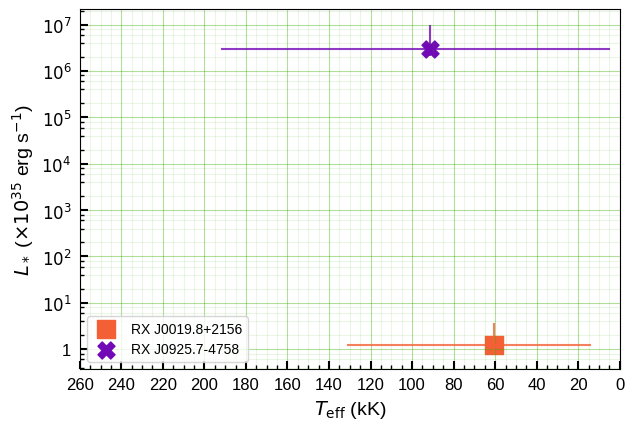
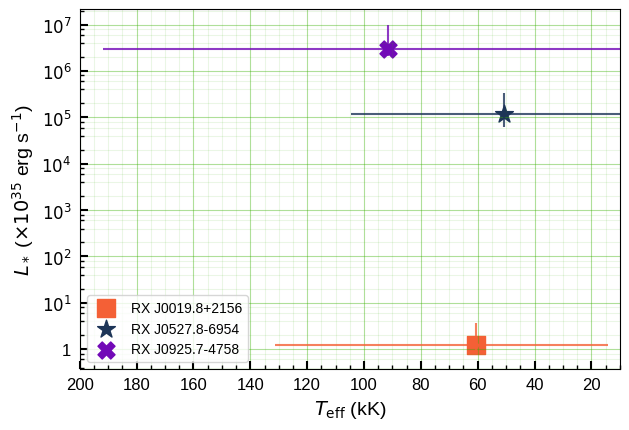
Updated analysis of HV 2554

diff --git a/chapters/05/results.tex b/chapters/05/results.tex
@@ -83,7 +83,7 @@
 				{CAL 83} & {} & {} & {} \\
 				{RS Oph} & {} & {} & {} \\
 				{RX J0019.8+2156} & {${68.3}/{54}$} & {1.26} & {$9.16\times 10^{-2}$} \\
-				{RX J0527.8-6954} & {} & {} & {} \\
+				{RX J0527.8-6954} & {${135.1}/{87}$} & {1.55} & {$7.28\times 10^{-4}$} \\
 				{RX J0925.7-4758} & {${183.4}/{131}$} & {1.40} & {$1.73\times 10^{-3}$} \\
 				{V3890 Sgr} & {} & {} & {} \\ \hline
 			\end{tabular}
@@ -104,7 +104,7 @@
 			{CAL 83} & {} & {} & {} \\
 			{RS Oph} & {} & {} & {} \\
 			{RX J0019.8+2156} & {$1.23_{0.39}^{2.37}\times 10^{35}$} & {$60.5_{46.5}^{70.9}$} & {$0.046_{0.014}^{0.805}$} \\
-			{RX J0527.8-6954} & {} & {} & {} \\
+			{RX J0527.8-6954} & {$1.21_{0.60}^{2.13}\times 10^{40}$} & {$50.6_{43.7}^{54.1}$} & {$0.333_{0.246}^{0.338}$} \\
 			{RX J0925.7-4758} & {$3.05_{0.99}^{6.53}\times 10^{41}$} & {$91.6_{86.9}^{100.2}$} & {$1.175_{1.086}^{1.274}$} \\
 			{V3890 Sgr} & {} & {} & {} \\
 			\hline
@@ -135,6 +135,12 @@
 			\end{figure}
 		
 		\subsection*{Unfolded spectrum of RX J0527.8-6954}
+			\begin{figure}[h!]
+				\centering
+				\includegraphics[width=\textwidth]{eufspec/rx-j0527d8-6954-pn_eufspec}
+				\caption{Unfolded spectrum after model fitting for RX J0527.8-6954}
+				\label{result:euf-rx-j0925}
+			\end{figure}
 		
 		\subsection*{Unfolded spectrum of RX J0925.7-4758}
 			\begin{figure}[h!]
